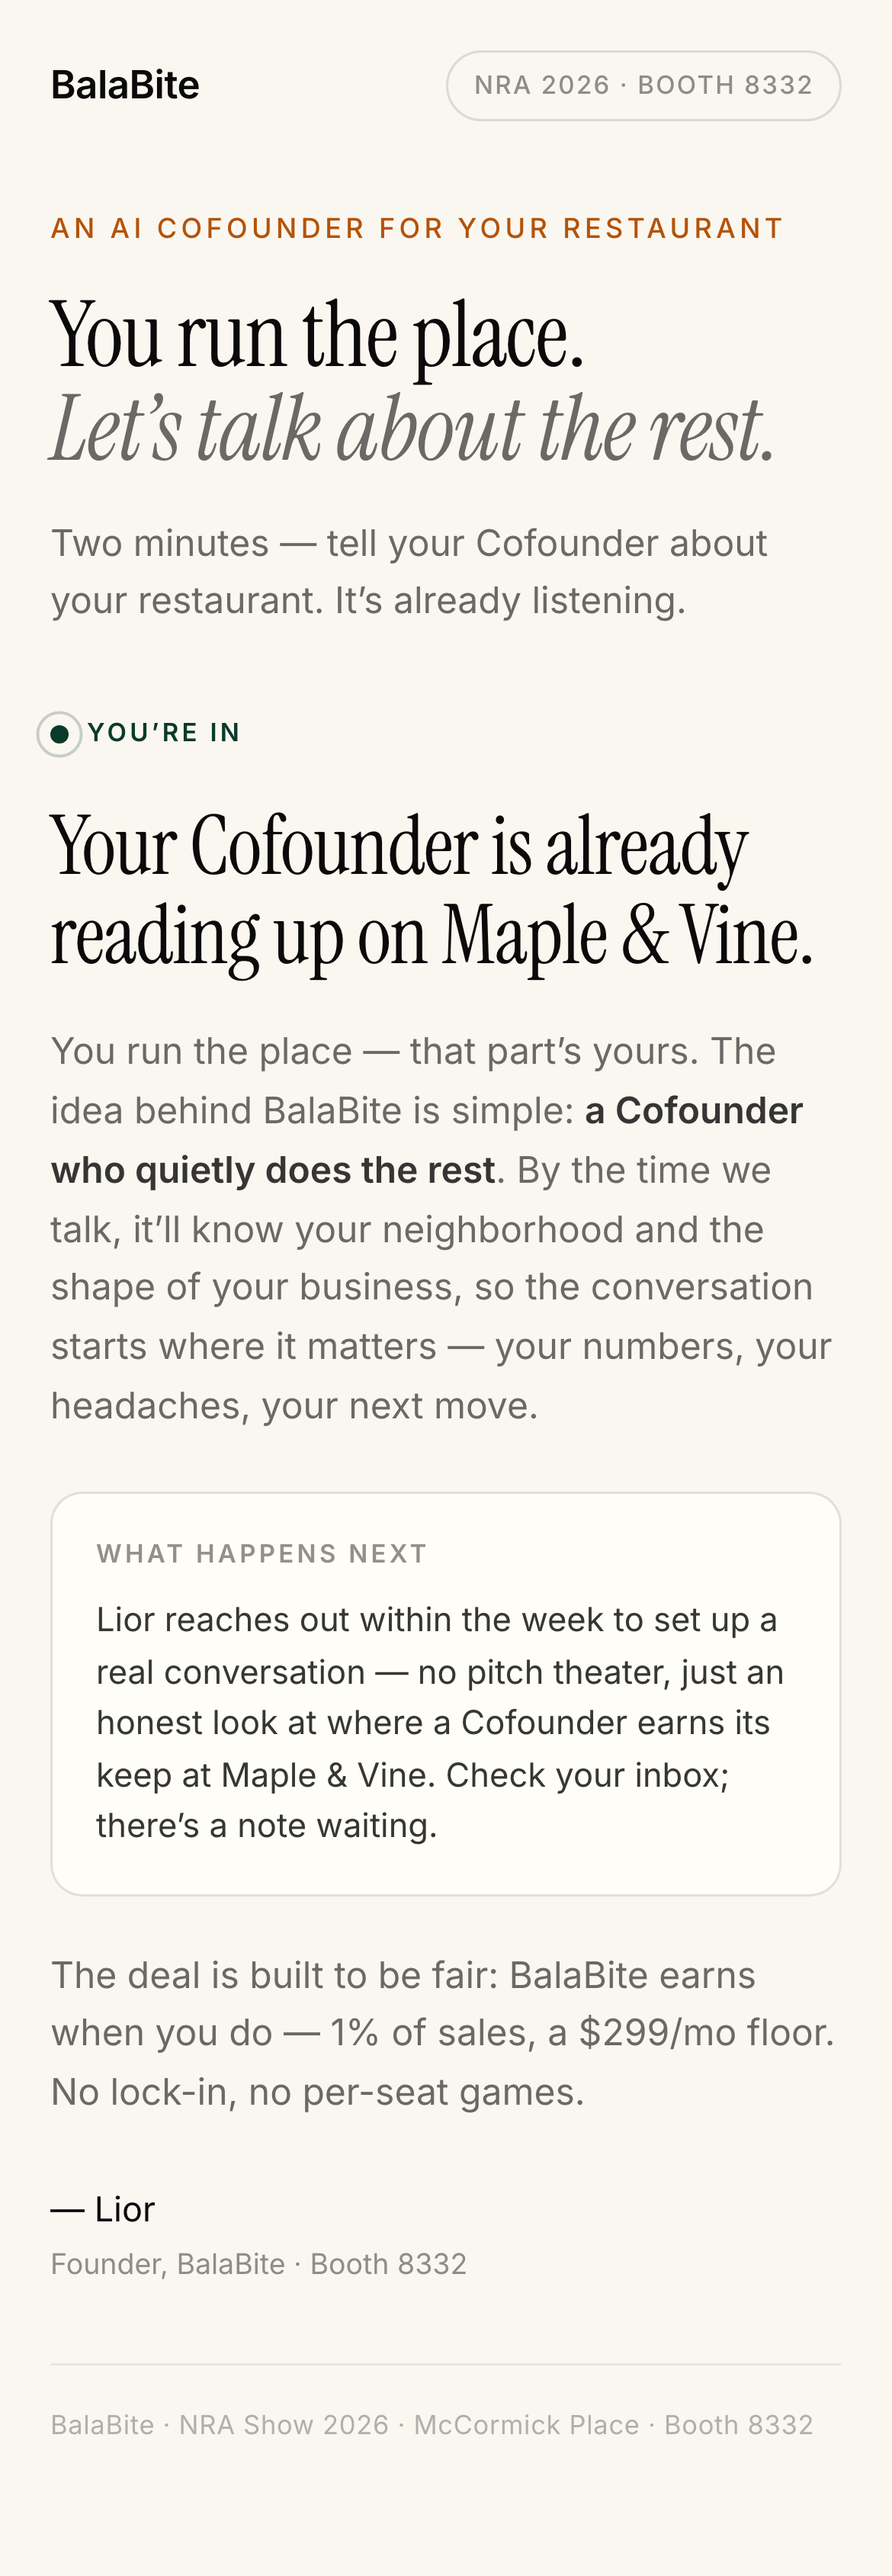
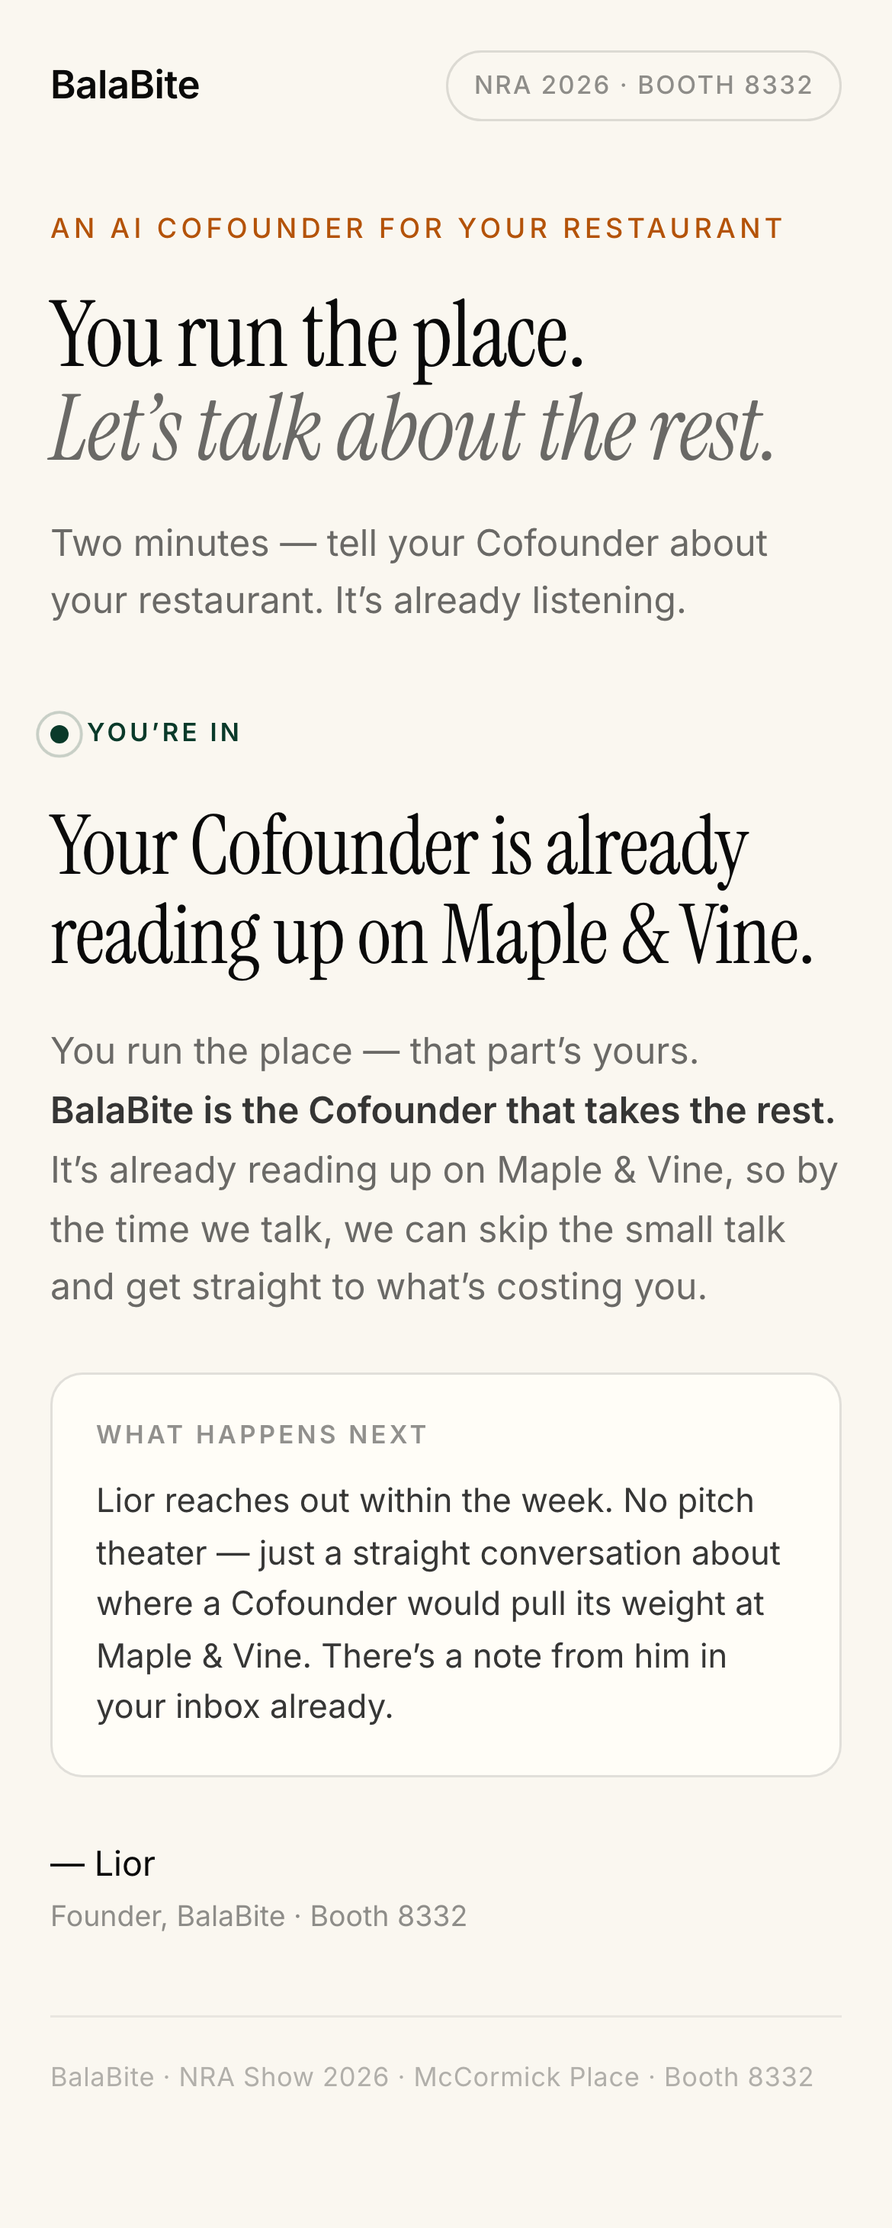
fix(nra): drop pricing from prospect copy, tighten wording
Lior feedback on the thank-you email: pricing doesn't belong in
prospect-facing copy, and the opening sentence didn't track.

- Removed the pricing block from the thank-you email, the on-screen
  confirmation, and the signup-page trust line. (The brief listed pricing
  as "fair to surface" — permission, not a requirement — and the CEO's
  call is that it reads salesy here.)
- Rewrote the email + confirmation copy: warmer, plain operator voice,
  no clunky semicolon construction. Signup trust line now speaks to the
  experience, not the price.
- Refreshed proof: 15-email-thankyou.png, updated confirmation shot.

diff --git a/src/app/api/nra/lead/templates.ts b/src/app/api/nra/lead/templates.ts
@@ -72,7 +72,7 @@ export function getProspectThankYouEmail(input: ProspectEmailInput): {
 <html lang="en">
 <head><meta charset="utf-8"><meta name="viewport" content="width=device-width,initial-scale=1"></head>
 <body style="margin:0;padding:0;background:${CREAM};">
-  <div style="display:none;max-height:0;overflow:hidden;opacity:0;">${metAt} Your Cofounder is already reading up on ${restaurant}.</div>
+  <div style="display:none;max-height:0;overflow:hidden;opacity:0;">Your Cofounder is already reading up on ${restaurant}.</div>
   <table role="presentation" width="100%" cellpadding="0" cellspacing="0" style="background:${CREAM};">
     <tr><td align="center" style="padding:40px 20px;">
       <table role="presentation" width="480" cellpadding="0" cellspacing="0" style="max-width:480px;width:100%;background:${CREAM_CARD};border:1px solid ${HAIRLINE};border-radius:16px;overflow:hidden;">
@@ -86,24 +86,17 @@ export function getProspectThankYouEmail(input: ProspectEmailInput): {
         </td></tr>
         <tr><td style="padding:20px 36px 0 36px;">
           <p style="margin:0 0 14px 0;font:400 16px/1.62 -apple-system,Segoe UI,Roboto,Helvetica,Arial,sans-serif;color:${INK_60};">
-            ${name} — ${metAt} You run the place; the idea is simple — a Cofounder who does the rest.
+            ${name} — ${metAt} The short version of what we do: you run the restaurant, and BalaBite is the Cofounder that handles everything around it.
           </p>
           <p style="margin:0 0 14px 0;font:400 16px/1.62 -apple-system,Segoe UI,Roboto,Helvetica,Arial,sans-serif;color:${INK_60};">
-            By the time we talk, it'll already know your neighborhood and the shape of your business — so the conversation starts where it matters: your numbers, your headaches, your next move.
+            It's already reading up on ${restaurant}. By the time we actually talk, it'll know your neighborhood, your competition, the rhythm of your week — so we can skip the small talk and get straight to what's costing you.
           </p>
         </td></tr>
         <tr><td style="padding:8px 36px 0 36px;">
           <div style="border-top:1px solid ${HAIRLINE};padding-top:20px;">
             <div style="font:600 12px/1 -apple-system,Segoe UI,Roboto,Helvetica,Arial,sans-serif;letter-spacing:0.14em;text-transform:uppercase;color:${INK_40};margin-bottom:12px;">What happens next</div>
             <p style="margin:0 0 10px 0;font:400 15px/1.55 -apple-system,Segoe UI,Roboto,Helvetica,Arial,sans-serif;color:${INK_60};">
-              Lior will reach out within the week to set up a real conversation — no pitch theater, just an honest look at where a Cofounder would earn its keep at ${restaurant}.
-            </p>
-          </div>
-        </td></tr>
-        <tr><td style="padding:20px 36px 0 36px;">
-          <div style="background:${CREAM};border:1px solid ${HAIRLINE};border-radius:12px;padding:16px 18px;">
-            <p style="margin:0;font:400 14px/1.55 -apple-system,Segoe UI,Roboto,Helvetica,Arial,sans-serif;color:${INK_60};">
-              <strong style="color:${INK};">The deal is built to be fair.</strong> BalaBite earns when you do — 1% of sales, with a $299/mo floor. No lock-in, no per-seat games.
+              Lior will reach out within the week. No pitch theater — just a straight conversation about where a Cofounder would pull its weight at ${restaurant}.
             </p>
           </div>
         </td></tr>
@@ -127,11 +120,9 @@ export function getProspectThankYouEmail(input: ProspectEmailInput): {
     ``,
     `Your Cofounder is already reading up on ${input.restaurantName.trim()}.`,
     ``,
-    `You run the place; the idea is simple — a Cofounder who does the rest. By the time we talk, it'll already know your neighborhood and the shape of your business, so the conversation starts where it matters: your numbers, your headaches, your next move.`,
+    `The short version of what we do: you run the restaurant, and BalaBite is the Cofounder that handles everything around it. It's already reading up on ${input.restaurantName.trim()} — by the time we actually talk, it'll know your neighborhood, your competition, the rhythm of your week, so we can skip the small talk and get straight to what's costing you.`,
     ``,
-    `What happens next: Lior will reach out within the week to set up a real conversation — no pitch theater, just an honest look at where a Cofounder would earn its keep at ${input.restaurantName.trim()}.`,
-    ``,
-    `The deal is built to be fair. BalaBite earns when you do — 1% of sales, with a $299/mo floor. No lock-in, no per-seat games.`,
+    `What happens next: Lior will reach out within the week. No pitch theater — just a straight conversation about where a Cofounder would pull its weight at ${input.restaurantName.trim()}.`,
     ``,
     `— Lior`,
     `Founder, BalaBite`,

diff --git a/src/app/nra/NraSignup.tsx b/src/app/nra/NraSignup.tsx
@@ -245,26 +245,20 @@ export default function NraSignup({ source }: { source: LeadSource }) {
         </h1>
 
         <p className="nra-confirm-body">
-          You run the place — that part’s yours. The idea behind BalaBite is
-          simple: <strong>a Cofounder who quietly does the rest</strong>. By the
-          time we talk, it’ll know your neighborhood and the shape of your
-          business, so the conversation starts where it matters — your numbers,
-          your headaches, your next move.
+          You run the place — that part’s yours.{' '}
+          <strong>BalaBite is the Cofounder that takes the rest.</strong> It’s
+          already reading up on {confirmName}, so by the time we talk, we can
+          skip the small talk and get straight to what’s costing you.
         </p>
 
         <div className="nra-confirm-card">
           <div className="nra-confirm-card-label">What happens next</div>
           <p className="nra-confirm-step">
-            Lior reaches out within the week to set up a real conversation — no
-            pitch theater, just an honest look at where a Cofounder earns its
-            keep at {confirmName}. Check your inbox; there’s a note waiting.
+            Lior reaches out within the week. No pitch theater — just a straight
+            conversation about where a Cofounder would pull its weight at{' '}
+            {confirmName}. There’s a note from him in your inbox already.
           </p>
         </div>
-
-        <p className="nra-confirm-body" style={{ marginBottom: 22 }}>
-          The deal is built to be fair: BalaBite earns when you do — 1% of
-          sales, a $299/mo floor. No lock-in, no per-seat games.
-        </p>
 
         <p className="nra-confirm-signoff">
           — Lior
@@ -486,8 +480,8 @@ export default function NraSignup({ source }: { source: LeadSource }) {
       )}
 
       <p className="nra-trust">
-        <strong>The deal is built to be fair</strong> — BalaBite earns when you
-        do: 1% of sales, $299/mo floor. No lock-in.
+        No clipboard, no spam — just a real conversation about your restaurant.
+        Lior reads every one of these himself.
       </p>
     </form>
   );

diff --git a/docs/lead-capture-proof/README.md b/docs/lead-capture-proof/README.md
@@ -22,6 +22,7 @@ mobile (iPhone 13, 390×844) and desktop (1366×900) viewports.
 | `12-prod-nra-mobile.png` | **LIVE** `www.balabite.ai/nra` | Production deploy — banner correctly hidden, no page errors |
 | `13-prod-nra-booklet-mobile.png` | **LIVE** `www.balabite.ai/NRA-booklet` | Production deploy |
 | `14-prod-admin-authed.png` | **LIVE** `www.balabite.ai/admin/nra` | Production deploy — passcode gate authenticates |
+| `15-email-thankyou.png` | Resend thank-you email | Rendered template — Cofounder voice, no pricing, no feature-anchoring |
 
 ## Checks performed
 
